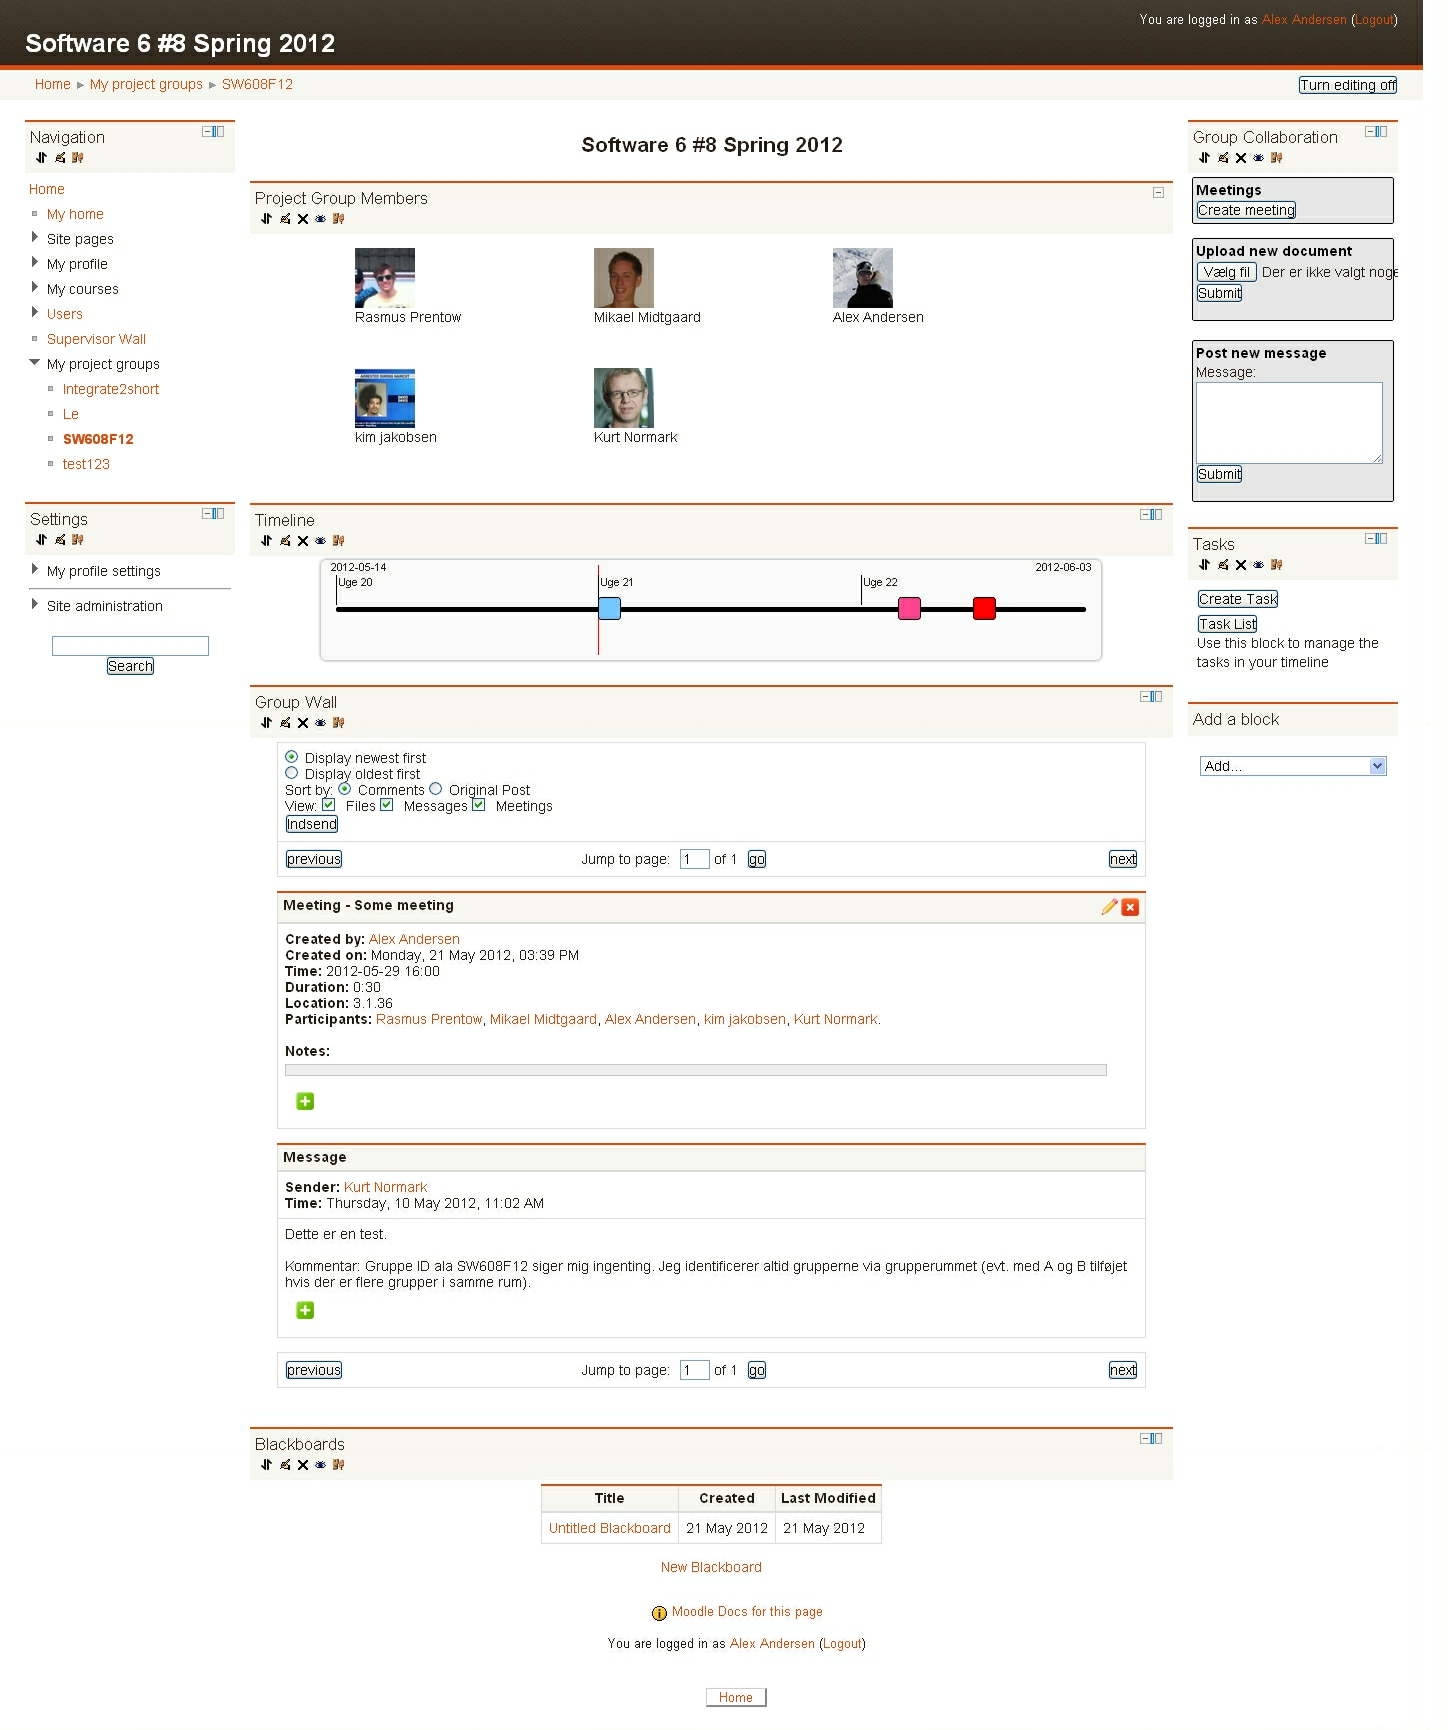
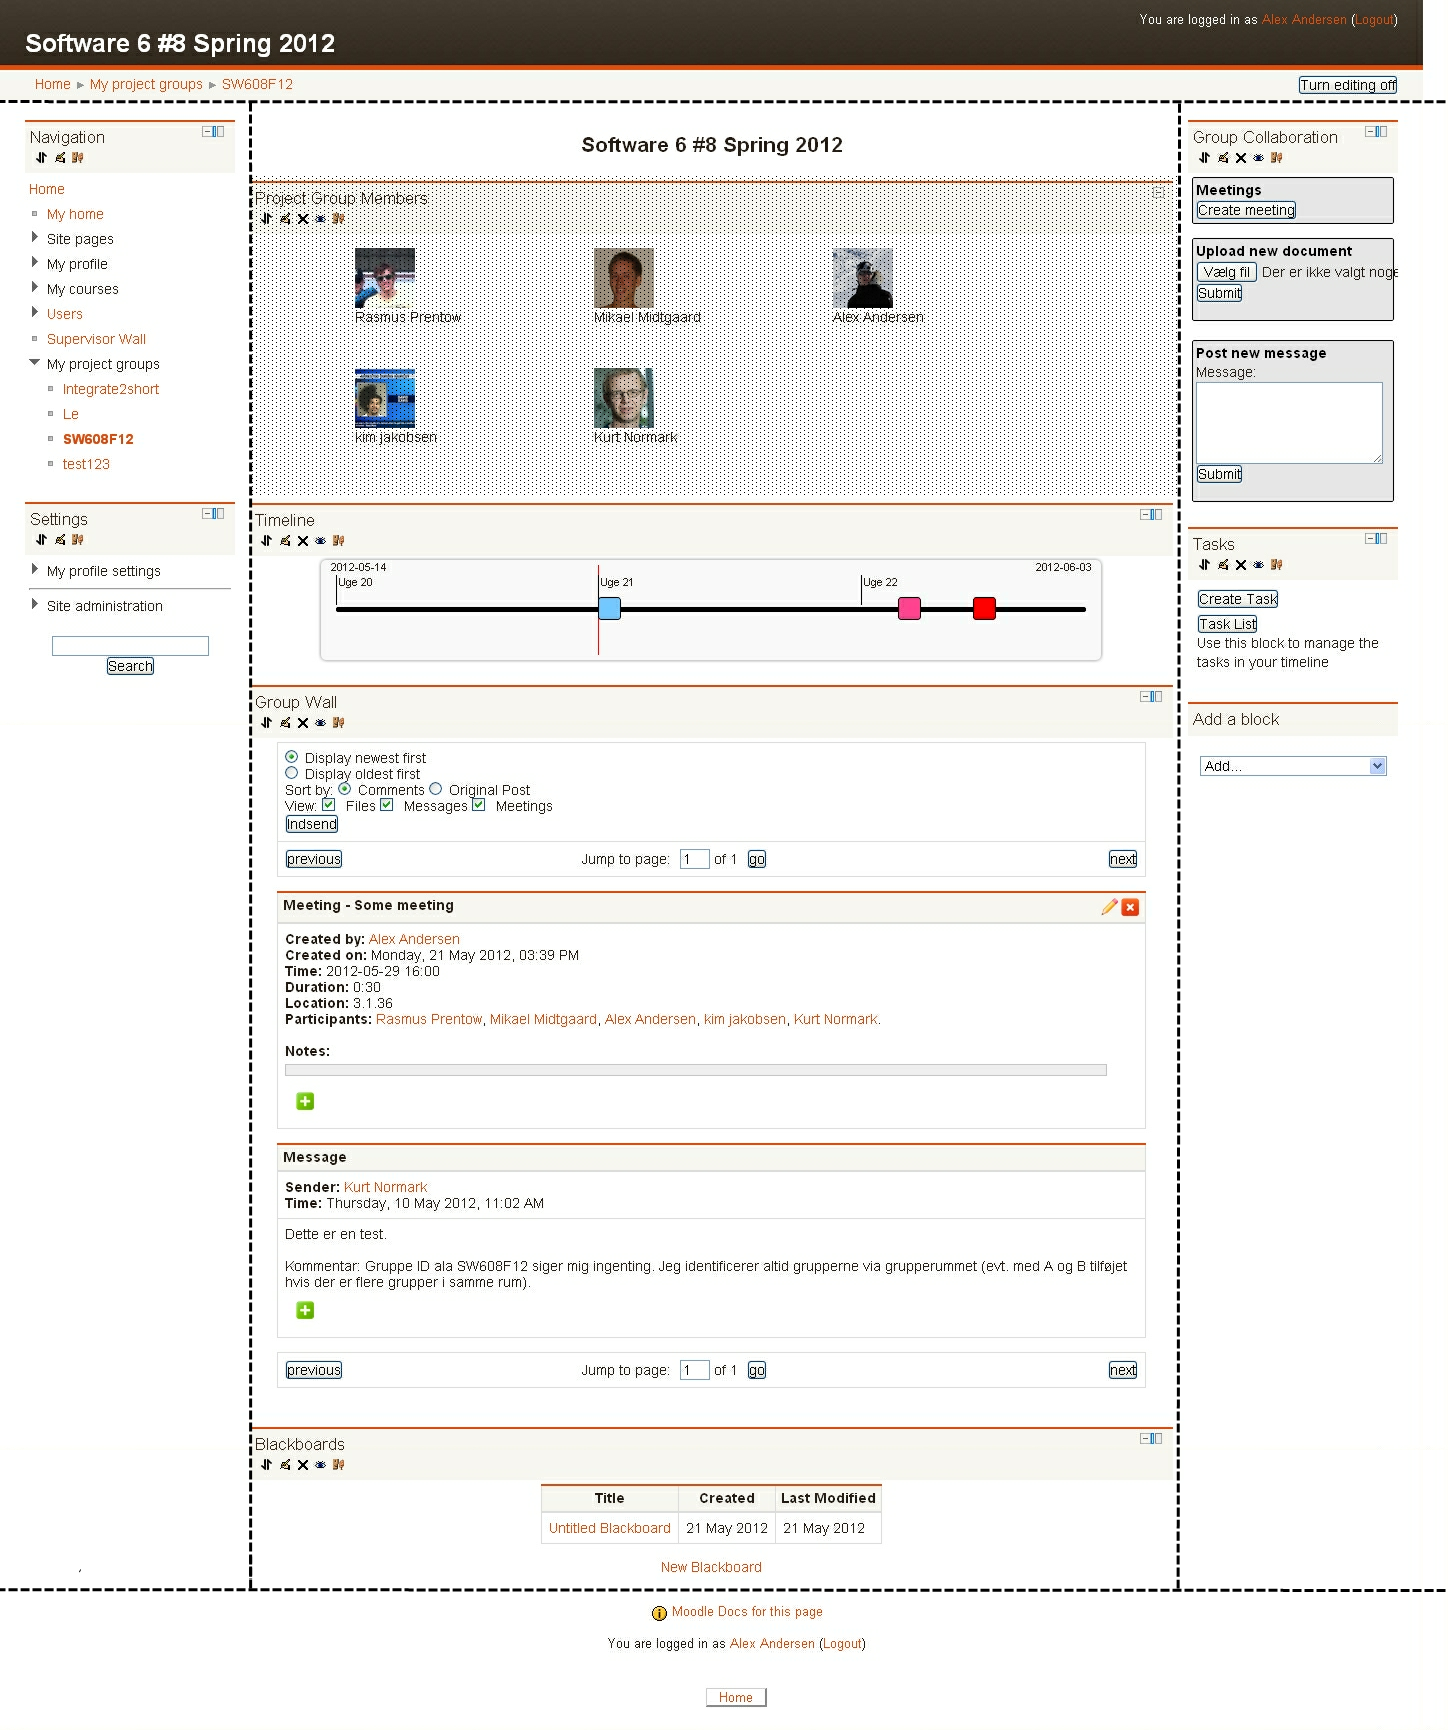
fff

diff --git a/report/input/systempresentation/adminpanel.tex b/report/input/systempresentation/adminpanel.tex
@@ -1,6 +1,3 @@
-
-
-
 \section{Administration}
 \label{sec:adminPrensentation}
 \todo{Teksten på siden er copyet fra implementationen og skal rettes til}
@@ -8,7 +5,7 @@
 \todo{Kig evt. på billedet i ovenstaaende section, hvis du syntes det er grimt må du gerne lave det om}
 This section presents the system as seen and used by the administrative personnel.
 
-can be accessed through the site administration menu as seen in \figref{fig:navigation}.
+The administration tool can be accessed through the site administration menu as seen in \figref{fig:navigation}.
 
 \begin{figure}[htb]
 	\centering
@@ -17,8 +14,34 @@ can be accessed through the site administration menu as seen in \figref{fig:navi
 	\label{fig:navigation}
 \end{figure}
 
-From here we provide a link to a list of all project groups and a link to a page, from where a new project group can be created.
+From here we provide a link to a list of all project groups (see \secref{ and a link to a page, from where a new project group can be created.
 The page with the list of all project groups has a table with three columns: Short name, Full name, and Actions.
 As the name indicates Short name is a short name for a group. 
 The Short name also serves as a link to the project group page described in \secref{sub:page}.
 In the Actions column there are links to delete and edit the project group.
+
+\subsection{List of Project Groups}
+%% The list
+\begin{figure}
+	\centering
+		\includegraphics[width=\textwidth]{images/moodleadminprojectgrouplist.png}
+	\label{fig:moodleadminprojectgrouplist}
+\end{figure}
+
+
+\subsection{Project Group Members}
+%% View a group
+\begin{figure}
+	\centering
+		\includegraphics[width=\textwidth]{images/moodleprojectgroupoverview.png}
+	\label{fig:moodleprojectgroupoverview}
+\end{figure}
+
+
+\subsection{Add \& Edit}
+%% Add/edit
+\begin{figure}
+	\centering
+		\includegraphics[width=\textwidth]{images/moodleprojecgroupedit.png}
+	\label{fig:moodleprojecgroupedit}
+\end{figure}

diff --git a/report/input/systempresentation/projectgroupage.tex b/report/input/systempresentation/projectgroupage.tex
@@ -3,7 +3,7 @@ A screenshot of a project group room can be seen in \figref{fig:projectgroupnoed
 In this project group room the blocks of the standard layout are seen.
 \begin{figure}[h]
 	\centering
-		\includegraphics[width=\textwidth]{images/projectgroupnoedit.png}
+		\includegraphics[width=\textwidth]{images/projectgroupwithedit.png}
 	\morscaption{The project group room}
 	\label{fig:projectgroupnoedit}
 \end{figure}
